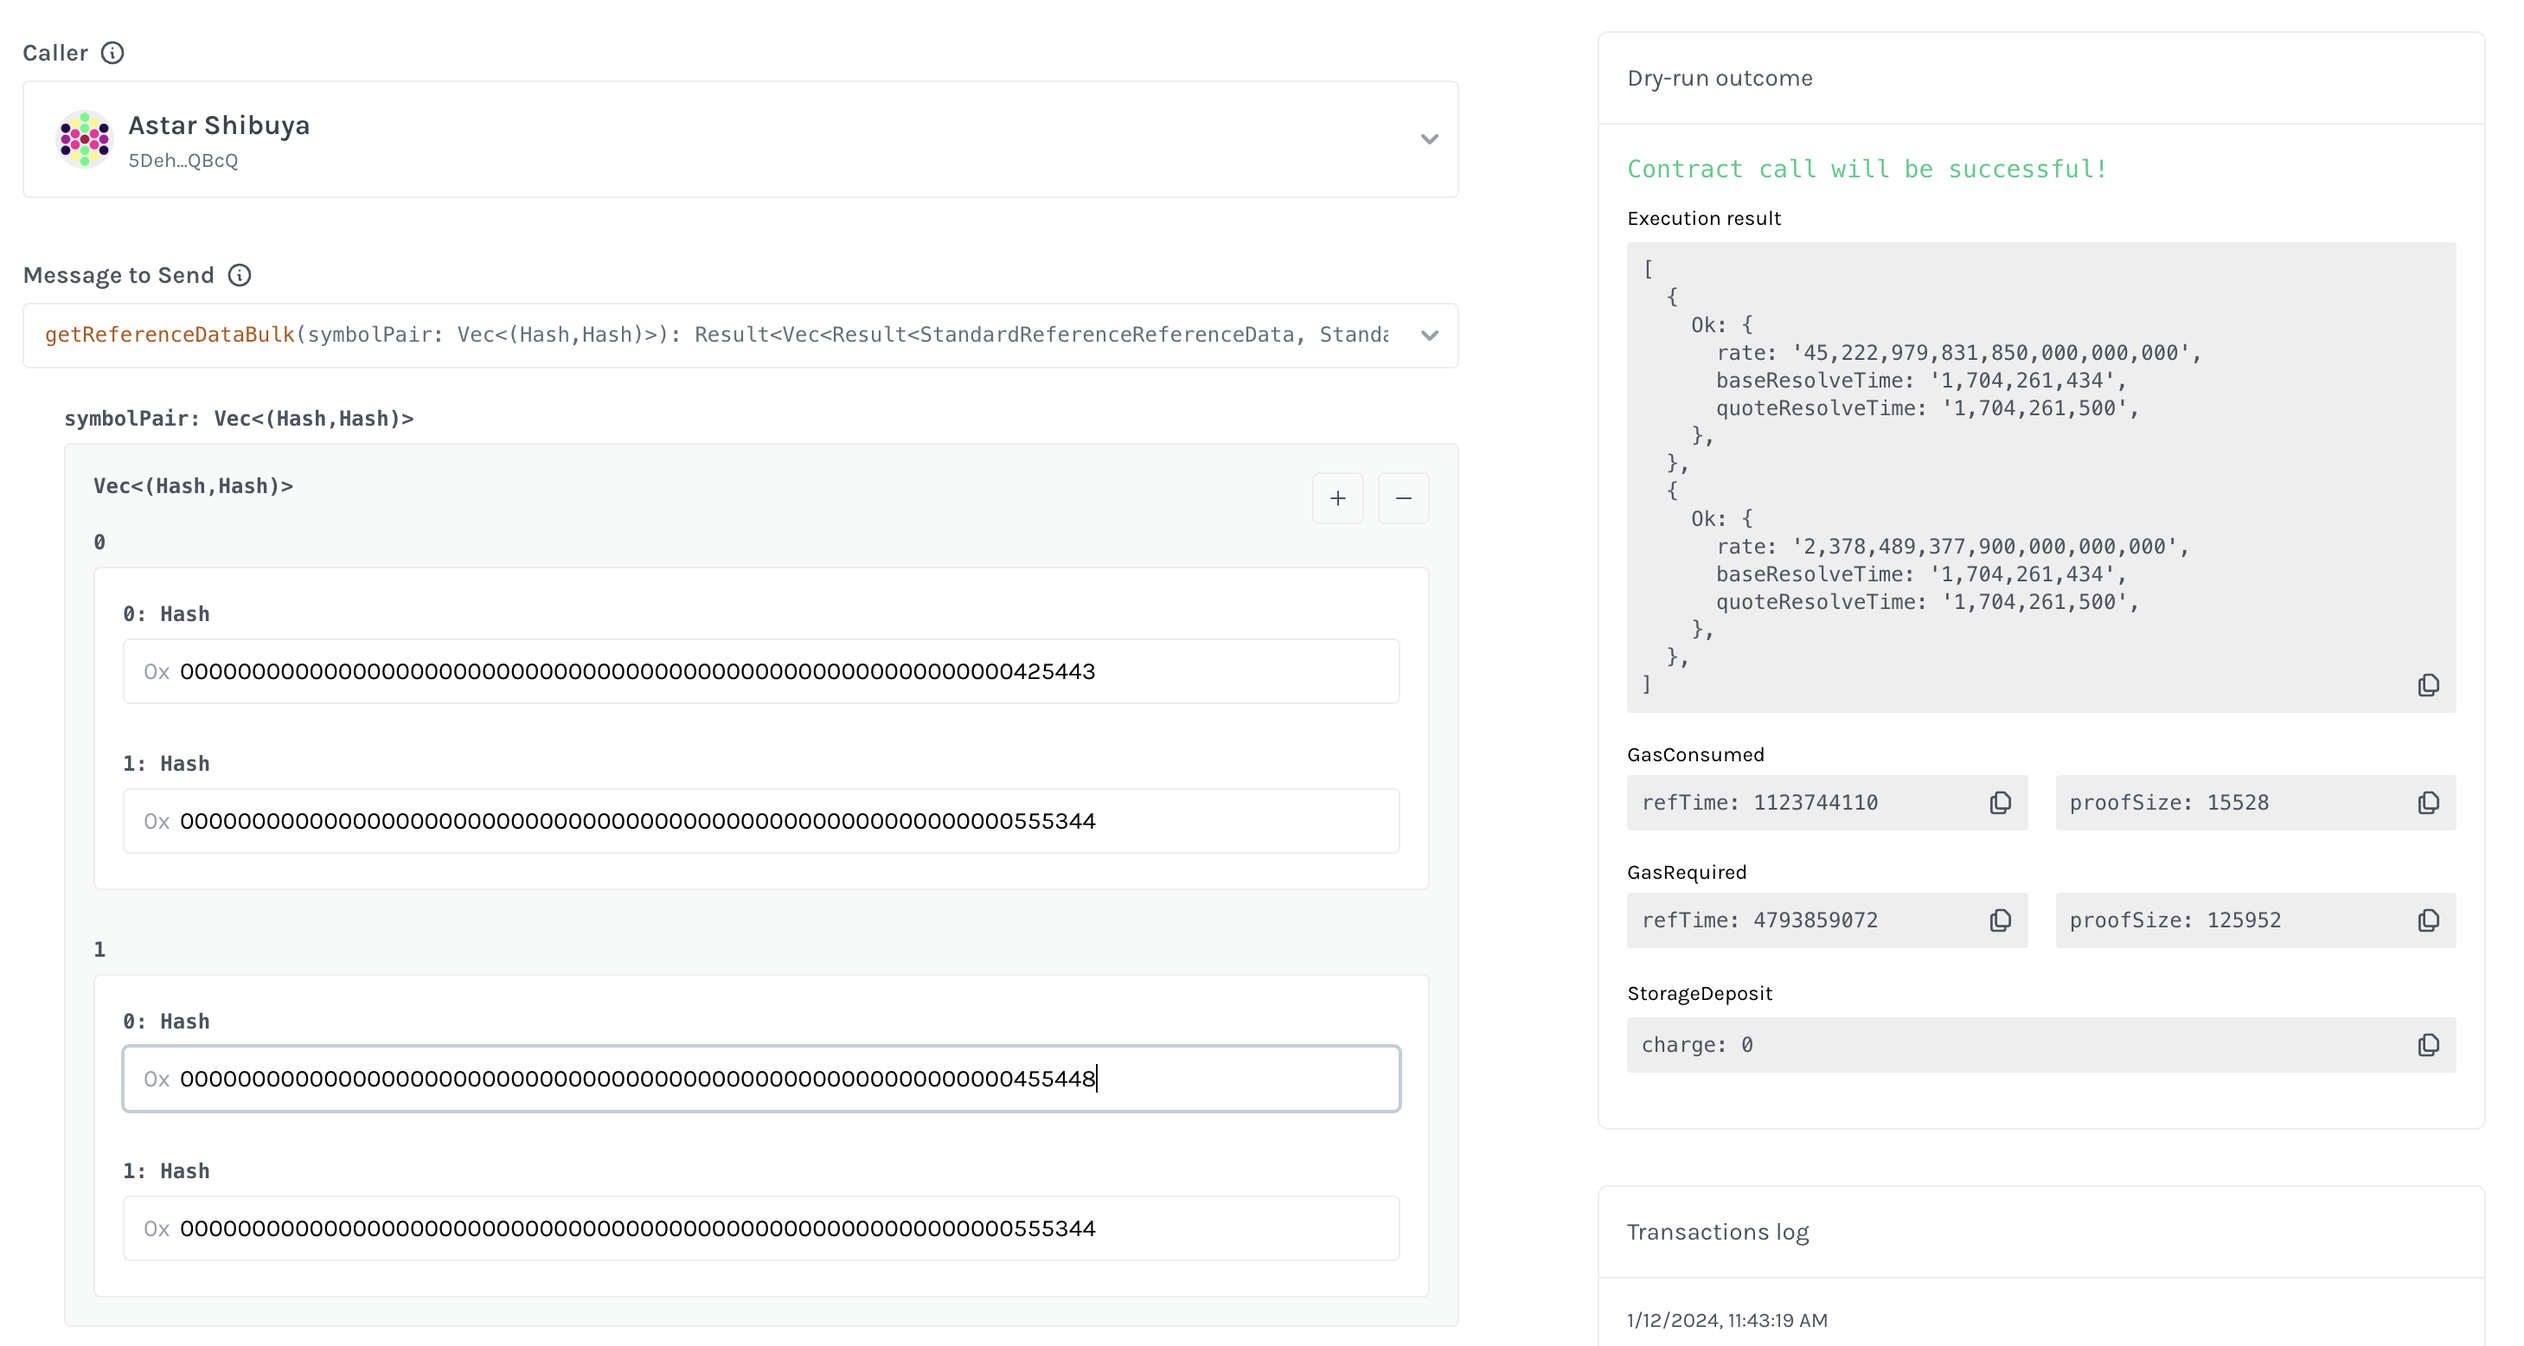
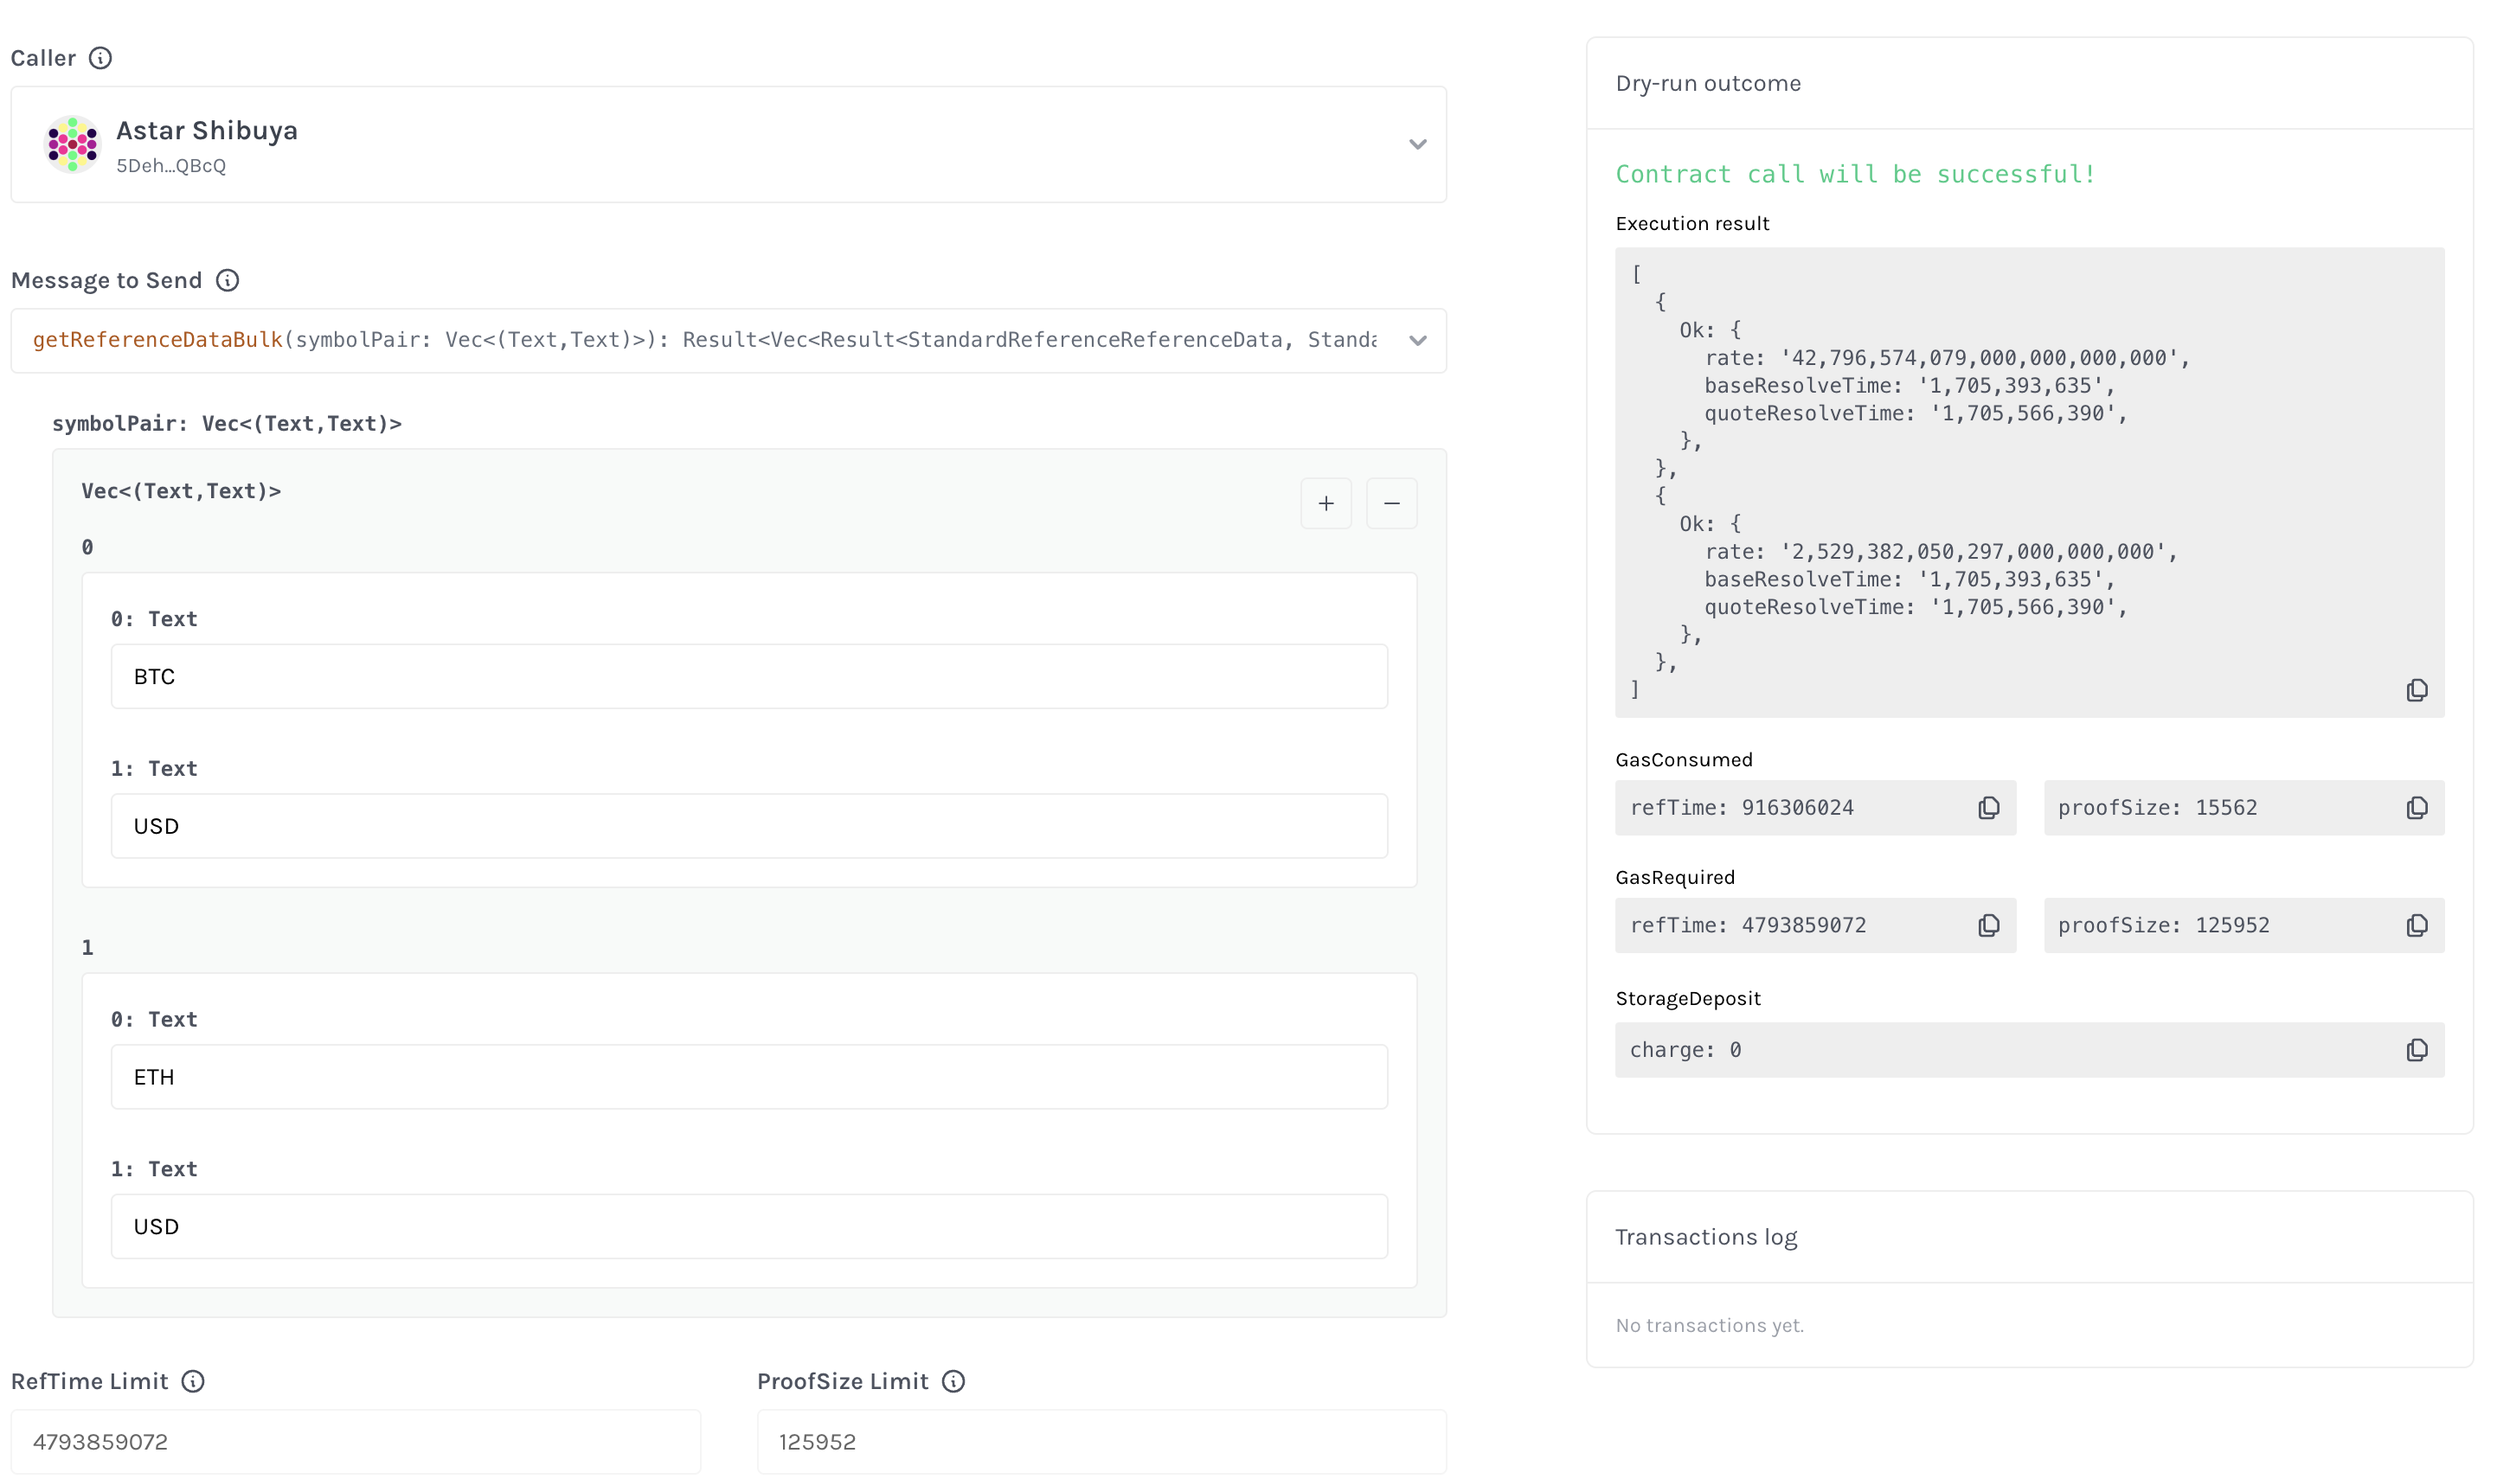
update readme

diff --git a/README.md b/README.md
@@ -55,19 +55,13 @@ pub enum QueryMsg {
     GetReferenceData {
         // Symbol pair to query where:
         // symbol_pair := (base_symbol, quote_symbol)
-        // e.g. BTC/USD ≡
-        // ("0000000000000000000000000000000000000000000000000000000000425443",
-        // "0000000000000000000000000000000000000000000000000000000000555344")
-        symbol_pair: (Hash, Hash),
+        // e.g. BTC/USD = ("BTC","USD")
+        symbol_pair: (String, String),
     },
     GetReferenceDataBulk {
         // Vector of Symbol pair to query
-        // e.g. <BTC/USD ETH/USD> ≡
-        // <("0000000000000000000000000000000000000000000000000000000000425443",
-        // "0000000000000000000000000000000000000000000000000000000000555344"),
-        // ("0000000000000000000000000000000000000000000000000000000000455448",
-        // "0000000000000000000000000000000000000000000000000000000000555344")>
-        symbol_pairs: Vec<(Hash, Hash)>,
+        // e.g. <BTC/USD ETH/USD> = <("BTC","USD"),("ETH","USD")>
+        symbol_pairs: Vec<(String, String)>,
     },
 }
 ```
@@ -94,16 +88,11 @@ pub struct ReferenceData {
 
 ### Using the Contracts UI
 
-This example use [StdReferenceBasic contract](https://contracts-ui.substrate.io/contract/WiTDVGWuPawbS2ysrE78EpU7Ky3M5WEsZzGN95B5YuPn6Kx) on Astar Shibuya.
+This example use [StdReferenceBasic contract](https://contracts-ui.substrate.io/contract/YhesbtnjHC7srVHN2f69vQiRwwLNYBTuUN15Z5NJzygimrF) on Astar Shibuya.
 
 #### Single Query
 
-This example demonstrates how to query the price of cryptocurrencies, such as BTC/USD and ETH/USD, using the provided hashing function and the get_reference_data function.
-
-To query the price of a cryptocurrency pair, you need to first hash the symbols of the base and quote currencies. Here are the hashes for BTC and ETH:
-
-- Hash("BTC") = "0000000000000000000000000000000000000000000000000000000000425443"
-- Hash("USD") = "0000000000000000000000000000000000000000000000000000000000555344"
+This example demonstrates how to query the price of cryptocurrencies, such as BTC/USD and ETH/USD, using the get_reference_data function.
 
 ![get_reference_data](img/get_reference_data.png)
 
@@ -112,9 +101,9 @@ The result from the `get_reference_data` function
 ```text
 {
   Ok: {
-    rate: '45,222,979,831,850,000,000,000',
-    baseResolveTime: '1,704,261,434',
-    quoteResolveTime: '1,704,261,500',
+    rate: '42,796,574,079,000,000,000,000',
+    baseResolveTime: '1,705,393,635',
+    quoteResolveTime: '1,705,566,198',
   },
 }
 ```
@@ -122,19 +111,13 @@ The result from the `get_reference_data` function
 and the results can be interpreted as:
 
 - BTC/USD
-  - `rate = 45222.98 BTC/USD`
-  - `lastUpdatedBase = 1704261434`
-  - `lastUpdatedQuote = 1704261500`
+  - `rate = 42796.57 BTC/USD`
+  - `lastUpdatedBase = 1705393635`
+  - `lastUpdatedQuote = 1705566198`
 
 #### Bulk Query
 
 This example demonstrates how to perform bulk queries for multiple cryptocurrency pairs using the get_reference_data_bulk function.
-
-Before making a bulk query, you need to hash the symbols of the base and quote currencies for each pair. Here are the hashes for BTC, ETH, and USD:
-
-- Hash("BTC") = "0000000000000000000000000000000000000000000000000000000000425443"
-- Hash("ETH") = "0000000000000000000000000000000000000000000000000000000000455448"
-- Hash("USD") = "0000000000000000000000000000000000000000000000000000000000555344"
 
 ![get_reference_data_bulk](/img/get_reference_data_bulk.png)
 
@@ -144,16 +127,16 @@ The result from the `get_reference_data_bulk` function
 [
   {
     Ok: {
-      rate: '45,222,979,831,850,000,000,000',
-      baseResolveTime: '1,704,261,434',
-      quoteResolveTime: '1,704,261,500',
+      rate: '42,796,574,079,000,000,000,000',
+      baseResolveTime: '1,705,393,635',
+      quoteResolveTime: '1,705,566,390',
     },
   },
   {
     Ok: {
-      rate: '2,378,489,377,900,000,000,000',
-      baseResolveTime: '1,704,261,434',
-      quoteResolveTime: '1,704,261,500',
+      rate: '2,529,382,050,297,000,000,000',
+      baseResolveTime: '1,705,393,635',
+      quoteResolveTime: '1,705,566,390',
     },
   },
 ]
@@ -162,10 +145,10 @@ The result from the `get_reference_data_bulk` function
 and the results can be interpreted as:
 
 - BTC/USD
-  - `rate = 45222.98 BTC/USD`
-  - `lastUpdatedBase = 1704261434`
-  - `lastUpdatedQuote = 1704261500`
+  - `rate = 42796.57 BTC/USD`
+  - `lastUpdatedBase = 1705393635`
+  - `lastUpdatedQuote = 1705566198`
 - ETH/USD
-  - `rate = 2378.48 ETH/USD`
-  - `lastUpdatedBase = 1704261434`
-  - `lastUpdatedQuote = 1704261500`
+  - `rate = 2529.38 ETH/USD`
+  - `lastUpdatedBase = 1705393635`
+  - `lastUpdatedQuote = 1705566198`
